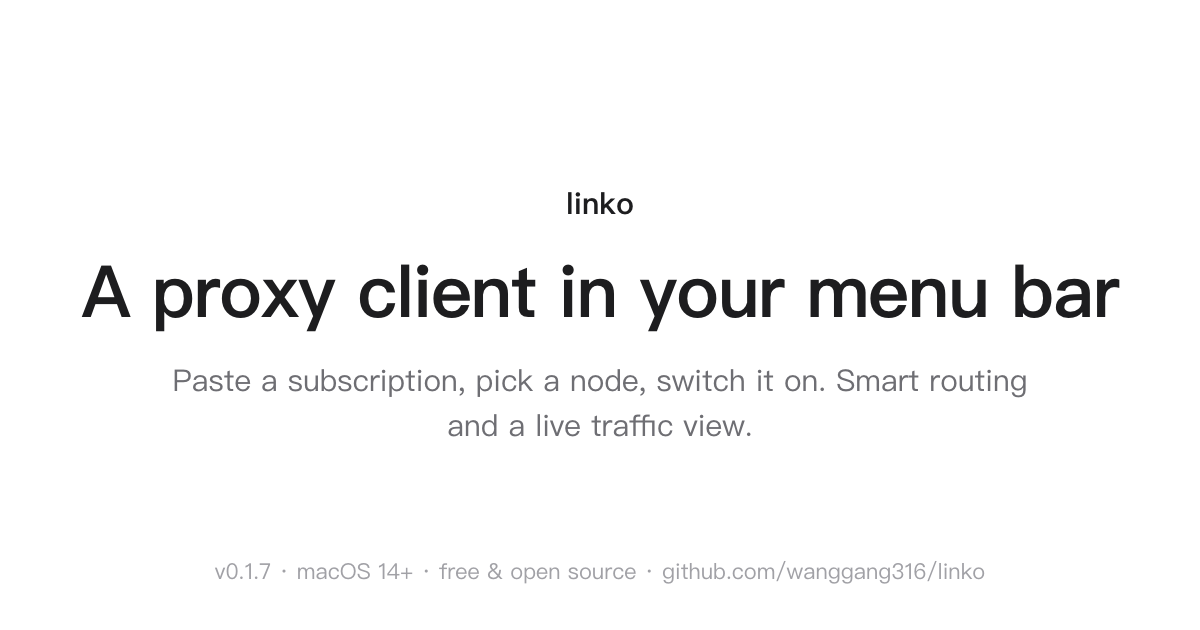
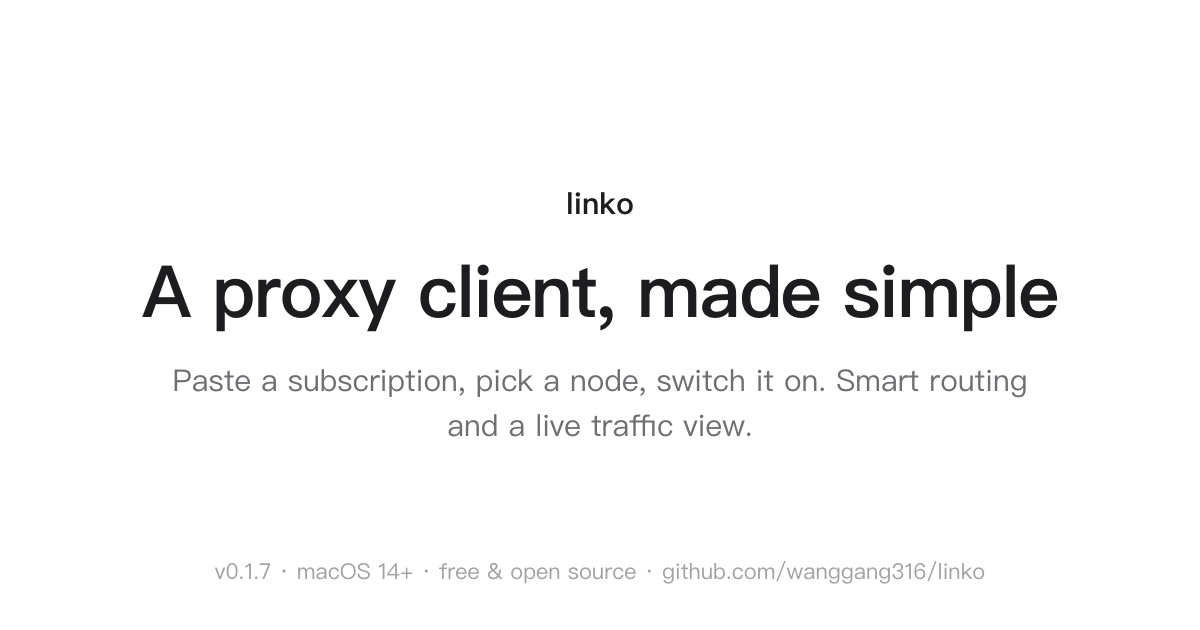
feat(site): split the hero into copy and panel, drop the menu-bar angle
The hero is now a two-column layout — headline, lede and actions on the
left, the app panel on the right — instead of a centered stack.

Headline and page metadata now lead with simplicity ("代理，本该这么简单" /
"A proxy client, made simple"): living in the menu bar is table stakes
for a proxy client, not a selling point, so the copy stops presenting it
as one. Social cards follow the new headline.

Changed region(s): [[0.0617, 0.4222, 0.925, 0.5429]]

diff --git a/website/src/lib/i18n.ts b/website/src/lib/i18n.ts
@@ -62,9 +62,9 @@ interface Copy {
 
 const zh: Copy = {
   home: {
-    title: 'linko — 菜单栏里的 macOS 代理客户端',
+    title: 'linko — 简单可靠的 macOS 代理客户端',
     description:
-      '轻巧好用的 macOS 代理客户端：粘贴订阅、选好节点、一键开启。智能分流、流量观测、自动切换，免费开源。',
+      '简单可靠的 macOS 代理客户端：粘贴订阅、选好节点、一键开启。智能分流、流量观测、自动切换，免费开源。',
   },
   changelogMeta: {
     title: '更新日志 — linko',
@@ -72,12 +72,12 @@ const zh: Copy = {
   },
   nav: { features: '功能', download: '下载', changelog: '更新日志' },
   hero: {
-    title: '菜单栏里的\n代理客户端',
+    title: '代理，本该\n这么简单',
     lede: '粘贴订阅，选好节点，一键开启。分流规则、流量观测、自动切换，都在一个干净的 macOS 原生应用里。',
     download: '免费下载',
     github: '查看源代码',
     fine: (v) => `v${v} · macOS 14 及以上 · Apple 芯片与 Intel · 免费开源`,
-    shotTitle: 'linko 菜单栏面板（示意）',
+    shotTitle: 'linko 主面板（示意）',
   },
   features: [
     {
@@ -136,9 +136,9 @@ const zh: Copy = {
 
 const en: Copy = {
   home: {
-    title: 'linko — a proxy client that lives in your menu bar',
+    title: 'linko — the simple, reliable proxy client for macOS',
     description:
-      'A friendly macOS proxy client: paste a subscription, pick a node, switch it on. Smart routing, live traffic view, automatic switching. Free and open source.',
+      'A simple, reliable macOS proxy client: paste a subscription, pick a node, switch it on. Smart routing, live traffic view, automatic switching. Free and open source.',
   },
   changelogMeta: {
     title: 'Changelog — linko',
@@ -146,12 +146,12 @@ const en: Copy = {
   },
   nav: { features: 'Features', download: 'Download', changelog: 'Changelog' },
   hero: {
-    title: 'A proxy client\nin your menu bar',
+    title: 'A proxy client,\nmade simple',
     lede: 'Paste a subscription, pick a node, switch it on. Routing rules, a live traffic view and automatic switching — in one clean, native macOS app.',
     download: 'Download free',
     github: 'View the source',
     fine: (v) => `v${v} · macOS 14 or later · Apple silicon & Intel · free and open source`,
-    shotTitle: 'The linko menu bar panel (illustration)',
+    shotTitle: 'The linko panel (illustration)',
   },
   features: [
     {

diff --git a/website/src/styles/global.css b/website/src/styles/global.css
@@ -199,21 +199,23 @@ p {
 /* --- hero ------------------------------------------------------------------- */
 
 .hero {
-  padding: clamp(56px, 9vw, 110px) 0 clamp(40px, 6vw, 72px);
-  text-align: center;
+  display: grid;
+  grid-template-columns: minmax(0, 6fr) minmax(0, 5fr);
+  align-items: center;
+  gap: clamp(32px, 6vw, 80px);
+  padding-block: clamp(48px, 8vw, 100px) clamp(48px, 7vw, 88px);
 }
 
 .hero .lede {
-  margin: 22px auto 0;
-  max-width: 34em;
+  margin-top: 22px;
+  max-width: 30em;
   color: var(--muted);
-  font-size: clamp(1.1rem, 1rem + 0.5vw, 1.35rem);
+  font-size: clamp(1.1rem, 1rem + 0.5vw, 1.3rem);
   line-height: 1.55;
 }
 
 .hero .cta {
   display: flex;
-  justify-content: center;
   align-items: center;
   flex-wrap: wrap;
   gap: 10px 26px;
@@ -229,7 +231,7 @@ p {
 .hero-shot {
   display: flex;
   justify-content: center;
-  margin-top: clamp(40px, 6vw, 64px);
+  min-width: 0;
 }
 
 /* --- feature rows ------------------------------------------------------------ */
@@ -441,6 +443,10 @@ footer a {
 /* --- responsive --------------------------------------------------------------- */
 
 @media (max-width: 820px) {
+  .hero {
+    grid-template-columns: minmax(0, 1fr);
+  }
+
   .feature {
     grid-template-columns: minmax(0, 1fr);
   }
